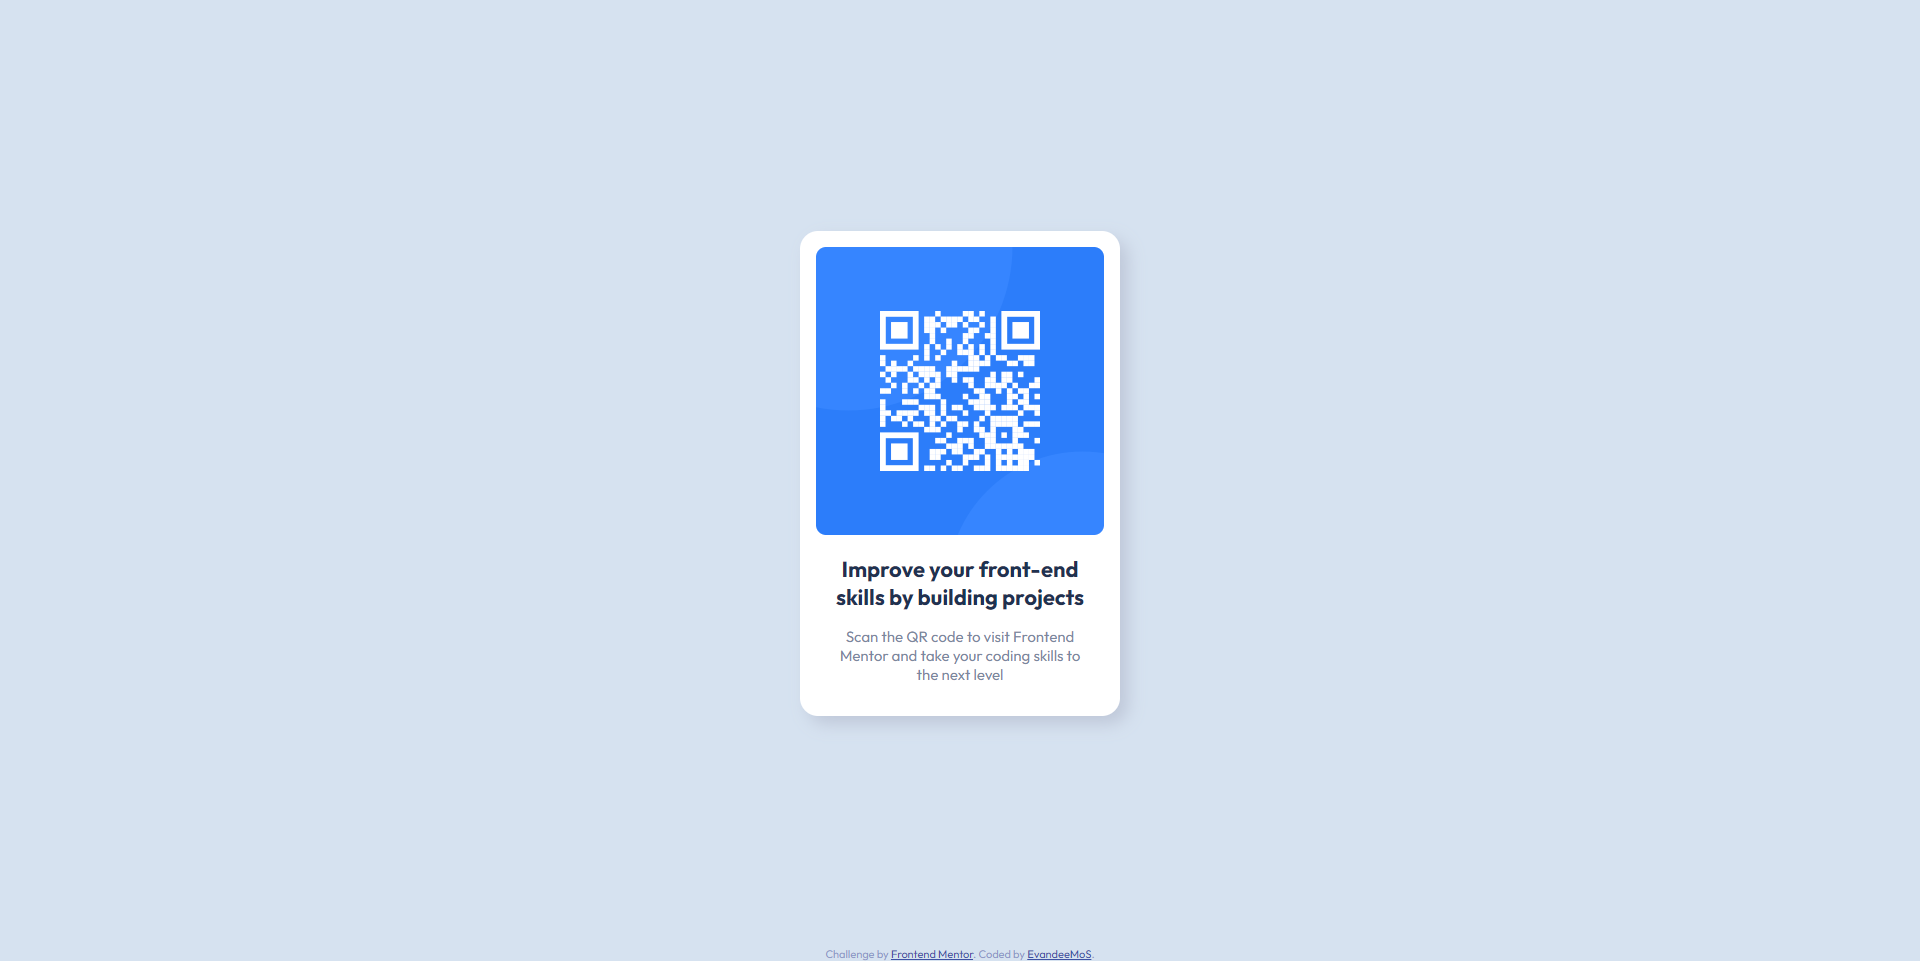
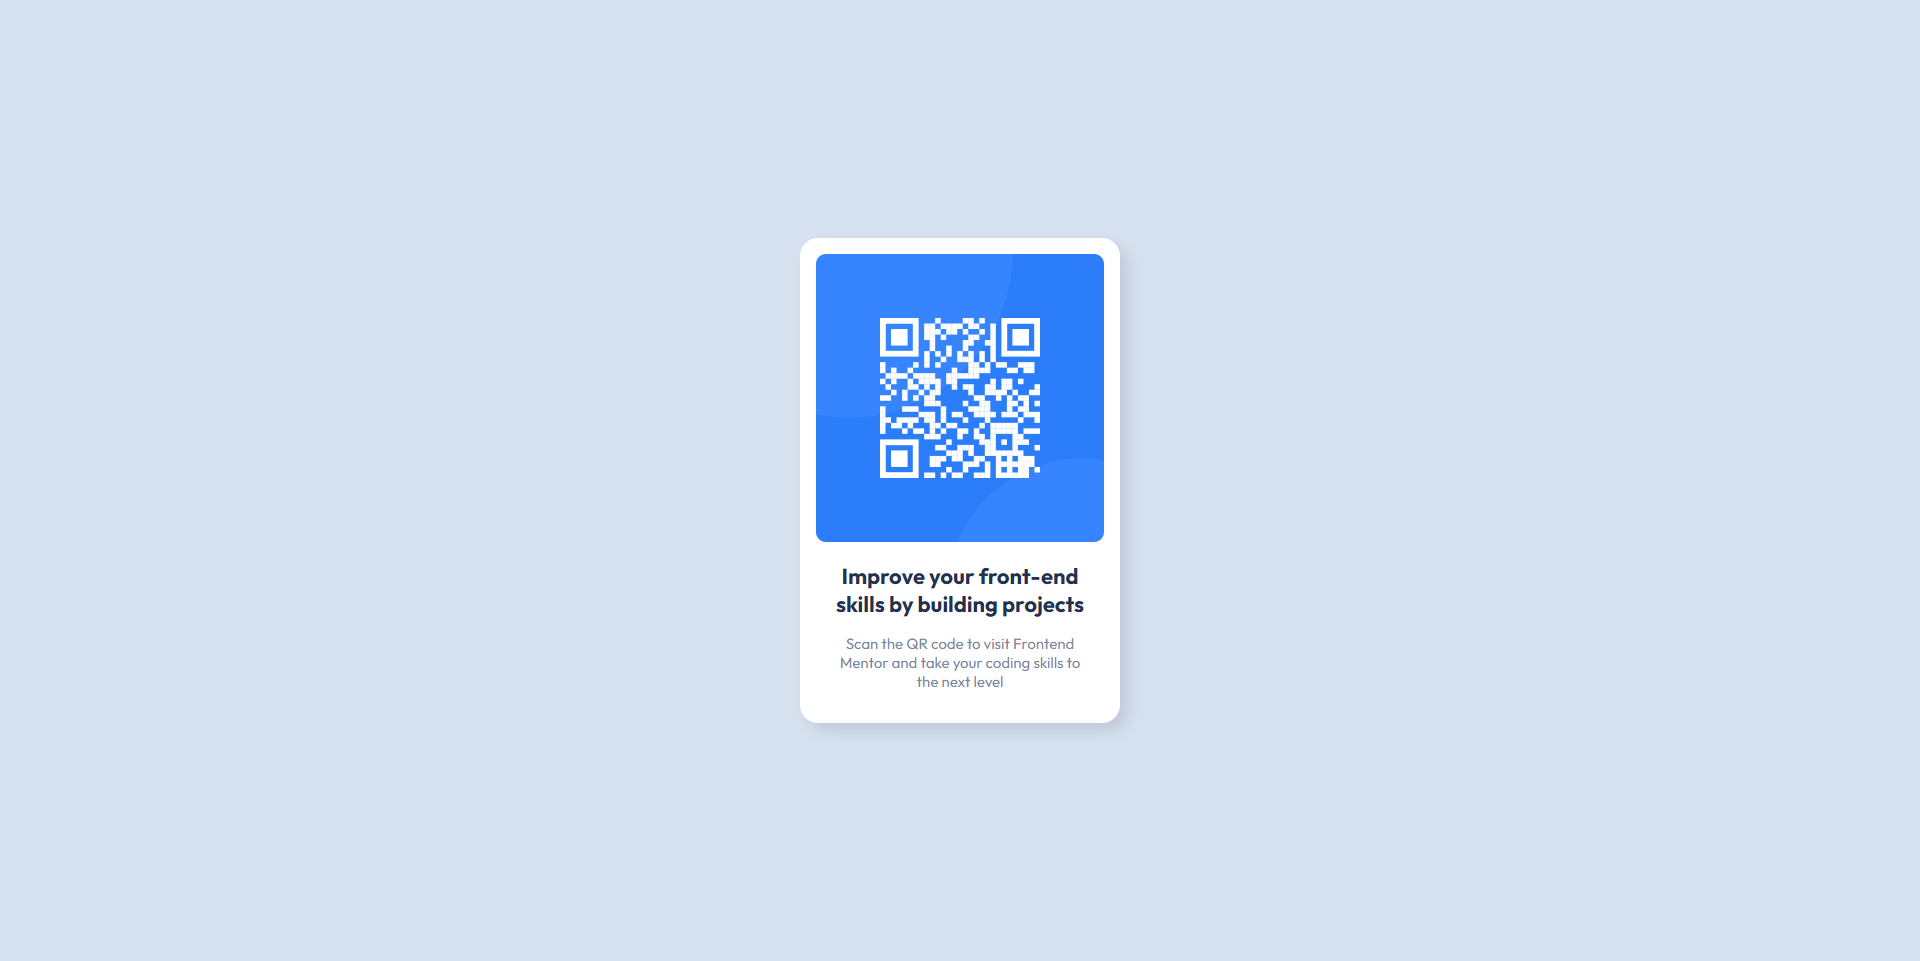
some small changes into style.css, update into readme.md and readme-pt-br.md

diff --git a/style.css b/style.css
@@ -12,7 +12,7 @@ body {
     min-height: 100vh;
 
     display: grid;
-    grid-template-rows: 1fr auto;
+    grid-template-rows: 100vh auto;
     place-items: center;
 
     background-color: #d6e2f0;

diff --git a/README.md b/README.md
@@ -4,7 +4,7 @@ PT-BR README: [:brazil:](README-pt-br.md)
 
 Hi there! This is my solution to: [QR code component challenge on Frontend Mentor](https://www.frontendmentor.io/challenges/qr-code-component-iux_sIO_H). 
 
-Frontend Mentor is a plataform with a lot of challenges to help you improve your coding skills building realistic projects. 
+Frontend Mentor is a platform with a lot of challenges to help you improve your coding skills by building realistic projects. 
 
 ## Table of contents
 
@@ -24,7 +24,7 @@ Frontend Mentor is a plataform with a lot of challenges to help you improve your
 
 ## Overview
 
-It's a simple page of a card with a qr-code in it, similar page are used to an infinity of things, since redirect people to another pages to make payments reading the qr-code.
+It's a simple page of a card with a QR code in it, similar pages are used for an infinity of things; from redirecting people to other pages to making payments by reading the QR code.
 
 ### Screenshots
 
@@ -54,20 +54,19 @@ It's a simple page of a card with a qr-code in it, similar page are used to an i
 ### Decisions
 
 
-I took the desicion to use Mobile-first workflow, it was because I think this type of page applies better into mobile than desktop, I think it's look a little empty into the desktop version.
+I decided to use Mobile-first workflow, it was because I think this type of page applies better to mobile than desktop, I think it looks a little empty in the desktop version.
 
-I made some plans about how I would apply things and then I just needed to implement it, it made the code flow a lot faster than I tought.
+I made some plans about how I would apply things and then I just needed to implement them, it made the code flow a lot faster than I thought.
 
 <details>
 <summary>old versions</summary>
-I made this page using just what I already knew about CSS and HTML, based on that, you will see that I took the decision to use CSS position properties instead of CSS grid or flex layout, why that? Well, how it's just and element on the entire body of the site, I tought that it would fit well, a simple way to put things into place, and how it's just one element, I don't need to worry about breaking the layout.
+I made this page using just what I already knew about CSS and HTML, based on that, you will see that I decided to use CSS position properties instead of CSS grid or flex layout, why that? Well, how it's just an element on the entire body of the site, I thought that it would fit well, a simple way to put things into place, and how it's just one element, I don't need to worry about breaking the layout.
 
-About the responsible part of the page, well, I didn't needed to make any change into the layout to the desktop version, cause the position propertiers already do the job to put the things on place based on view size.
+About the responsible part of the page, well, I didn't need to make any changes to the layout of the desktop version, cause the position properties already do the job to put the things in place based on view size.
 </details>
 
 ### Updates after challenge
-
-After some recieve some suggestions from frontend mentor community, I decided change some off my initial decisions to make it more responsible and improve acessibility of my page.
+After I received some suggestions from the front-end mentor community, I decided to change some of my initial decisions to make it more responsible and improve the accessibility of my page.
 
 First of all, I made the mistake of skipping one header level, so now it's corrected.
 
@@ -83,67 +82,39 @@ First of all, I made the mistake of skipping one header level, so now it's corre
   <h1 class="card-title">Improve your front-end skills by building projects</h1>
   ```
 
-Then I added a tag _footer_ to wrap my atribution.
+Then I added a tag _footer_ to wrap my attribution, with it my project will become better organized in code and to screen readers.
 
 ```html
 <footer>
-    <div class="attribution">
-      <p>
-        Challenge by <a href="https://www.frontendmentor.io?ref=challenge" target="_blank">Frontend Mentor</a>. 
-        Coded by <a target="_blank" href="https://github.com/EvandeeMoS">EvandeeMoS</a>.
-      </p>
-    </div>
-  </footer>
+  <div class="attribution">
+    <p>
+      Challenge by <a href="https://www.frontendmentor.io?ref=challenge" target="_blank">Frontend Mentor</a>. 
+      Coded by <a target="_blank" href="https://github.com/EvandeeMoS">EvandeeMoS</a>.
+    </p>
+  </div>
+</footer>
 ```
 
-On CSS my decision of use _css position_ to use the _css grid layout_, as it was the principal property to put my elements into place, it was the "biggest" change into the code.
+On CSS, I've changed my decision of use _css position_ to use the _css grid layout_, last time I was thinking that using position would be a faster way of making this simple page with just one element, but after the suggestions, the grid layout proved to be more efficient even to this simple page.
 
-So I put the _display: grid_ property into body, but it made my footer a little bigger than needed, making the main section smaller, after some search I found the _grid-template-rows_ property, it was exactly what I wanted.
+```css
+body {
+  min-height: 100vh;
 
-<details>
-  <summary>without <em>grid-template-rows</em></summary>
+  display: grid;
+  grid-template-rows: 100vh auto;
+  place-items: center;
 
-  ```css
-    body {
-    min-height: 100vh;
+  background-color: #d6e2f0;
+  font-family: 'Outfit', sans-serif;
 
-    display: grid;
-    place-items: center;
+  font-size: 1.5rem;
+}
+```
 
-    background-color: #d6e2f0;
-    font-family: 'Outfit', sans-serif;
+To finish it, I changed the units used in CSS to responsive ones, now it's responsive to the changes in browser base font-size changes. As you can see in these parts of the code for example:
 
-    font-size: 1.5rem;
-    }
-  ```
-
-  <img src="./screenshots/grid-bug.png" alt="size of footer bigger than necessary, while main section is smaller than expected">
-</details>
-
-<details>
-  <summary>with</summary>
-
-  ```css
-    body {
-      min-height: 100vh;
-
-      display: grid;
-      grid-template-rows: 1fr auto;
-      place-items: center;
-
-      background-color: #d6e2f0;
-      font-family: 'Outfit', sans-serif;
-
-      font-size: 1.5rem;
-    }
-  ```
-  
-  <img src="./screenshots/grid-correction.png" alt="size of footer and main content exact the same as the design ask">
-</details>
-
-To finish, I changed the units used in css to responsive ones, now it's responsive to change of base browser font-size changes. As you can see in these parts of code for example:
-
-- This is a tip that from a video, make the font-size base 10px instead of 16px so it's easier think of sizes.
+- This is a tip that from a video, make the font-size base 10px instead of 16px so it's easier to think of sizes.
   ```css
   html {
       font-size: 0.625rem;
@@ -172,5 +143,5 @@ To finish, I changed the units used in css to responsive ones, now it's responsi
 
 ## Acknowledgments
 
-Here some fellows of frontend mentor that helped with their suggestions into comments of my solution:
+Here are some fellows of frontend mentor that helped with their suggestions into comments on my solution:
 [@Hassiai](https://www.frontendmentor.io/profile/Hassiai), [@ecemgo](https://www.frontendmentor.io/profile/ecemgo) and [@sumanth-chandana](https://www.frontendmentor.io/profile/sumanth-chandana)

diff --git a/README-pt-br.md b/README-pt-br.md
@@ -22,12 +22,12 @@ O Frontend Mentor é um site onde você pode praticar suas habilidades de codifi
 
 <details open>
   <summary>desktop view</summary>
-  <img src="./solution-screenshot.jpeg">
+  <img src="./screenshots/desktop-view-screenshot.png">
 </details>
 
 <details>
   <summary>Mobile view</summary>
-  <img src="./solution-mobile-view-screenshot.jpeg">
+  <img src="./screenshots/mobile-view-screenshot.png">
 </details>
 
 ### Links
@@ -49,9 +49,89 @@ Primeiramente tomei a decisão de fazer o projeto seguindo o modelo mobile-first
 
 Então fiz alguns planos sobre como seria o fluxo de desenvolvimento da página, quais seriam as tags necessarias para cada elemento em tela, quais seriam as classes necessárias para estilizar a página, etc... Isso fez com que o desenvolver da página tenha sido bem mais rápido do que eu pensava.
 
-Eu decidi fazer o projeto usando apenas o que eu já sabia sobre HTML e CSS, tendo isso em mente, dei preferência a posicionar o elementos em tela utilizando a propriedade _position_ do CSS em vez dos modelo _grid_ ou _flexbox_, visto que a página possui apenas um elemento centralizado na tela, não há riscos diretos da página quebrar com o uso de _position_, sendo uma solução simples e eficaz para centralizar o elemento em tela.
 
-Sobre a resposibilidade da página, bem, eu não fiz nenhuma alteração entre o layout desktop e mobile, visto que, de acordo com o desafio a visão desktop e mobile são exatamente iguais, sendo assim a propriedade _position_ já fez o trabalho de posicionar o elemento no meio da tela em ambos as visões.
+<details>
+<summary>Versões antigas</summary>
+<p>Eu decidi fazer o projeto usando apenas o que eu já sabia sobre HTML e CSS, tendo isso em mente, dei preferência a posicionar o elementos em tela utilizando a propriedade _position_ do CSS em vez dos modelo _grid_ ou _flexbox_, visto que a página possui apenas um elemento centralizado na tela, não há riscos diretos da página quebrar com o uso de _position_, sendo uma solução simples e eficaz para centralizar o elemento em tela.</p>
+
+<p>Sobre a resposibilidade da página, bem, eu não fiz nenhuma alteração entre o layout desktop e mobile, visto que, de acordo com o desafio a visão desktop e mobile são exatamente iguais, sendo assim a propriedade _position_ já fez o trabalho de posicionar o elemento no meio da tela em ambos as visões.</p>
+
+</details>
+
+### Updates after challenge
+
+Após receber algumasa sugestões do pessoal lá do frontend mentor, eu decidi rever algumas das minhas decisões e com isso melhorar responsabilidde e a acessibilidade da minha página.
+
+Primeiramente, eu tinha feito o erro de pular um nível das tags de título, então nesse update eu decidi ajustar isso.
+
+- Antes
+
+  ```html
+  <h2 class="card-title">Improve your front-end skills by building projects</h2>
+  ```
+
+- Depois
+
+  ```html
+  <h1 class="card-title">Improve your front-end skills by building projects</h1>
+  ```
+
+Eu também decidi colocar a atribução dentro de um footer, para manter o projeto mais organizado tanto no código quanto para os leitores de tela.
+
+```html
+<footer>
+  <div class="attribution">
+    <p>
+      Challenge by <a href="https://www.frontendmentor.io?ref=challenge" target="_blank">Frontend Mentor</a>. 
+      Coded by <a target="_blank" href="https://github.com/EvandeeMoS">EvandeeMoS</a>.
+    </p>
+  </div>
+</footer>
+```
+
+Já no Css, decidi largar minha antiga decisão de utilizar o _css position_ invés do _css grid layout_, antes havia pensado no position como uma forma rápida de entregar algo simples, mas o grid layout se prova mais eficaz para possíveis adições futuras.
+
+```css
+body {
+  min-height: 100vh;
+
+  display: grid;
+  
+  grid-template-rows: 100vh auto;
+  place-items: center;
+
+  background-color: #d6e2f0;
+  font-family: 'Outfit', sans-serif;
+
+  font-size: 1.5rem;
+}
+```
+
+E para finalizar, eu troquei as unidades que estavam sendo usadas no css por unidadades responsivas, agora a página irá se adptar ao tamanho de fonte definida em seu navegador. Algumas das alterações podem ser vistas nessas linhas de código:
+
+- Essa foi uma dica que eu peguei num blog a um tempo atrás, onde nós ajustamos o tamanho da fonte base para 10px em vez de 16px, facilitando o cálculo de font-size usando em e rem.
+  ```css
+  html {
+      font-size: 0.625rem;
+  }
+  ```
+
+- Tamanho base da fonte do site definida para 15px
+  ```css
+  body {
+    font-size: 1.5rem;
+  }
+  ```
+
+- Mudando o tamanho do título do cartão para dar um destaque
+  
+  ```css
+  .card-title {
+    margin: 1.6rem;
+    font-size: 1.46em;
+    color: #1f3251;
+  }
+  ```
 
 ## Author
 
